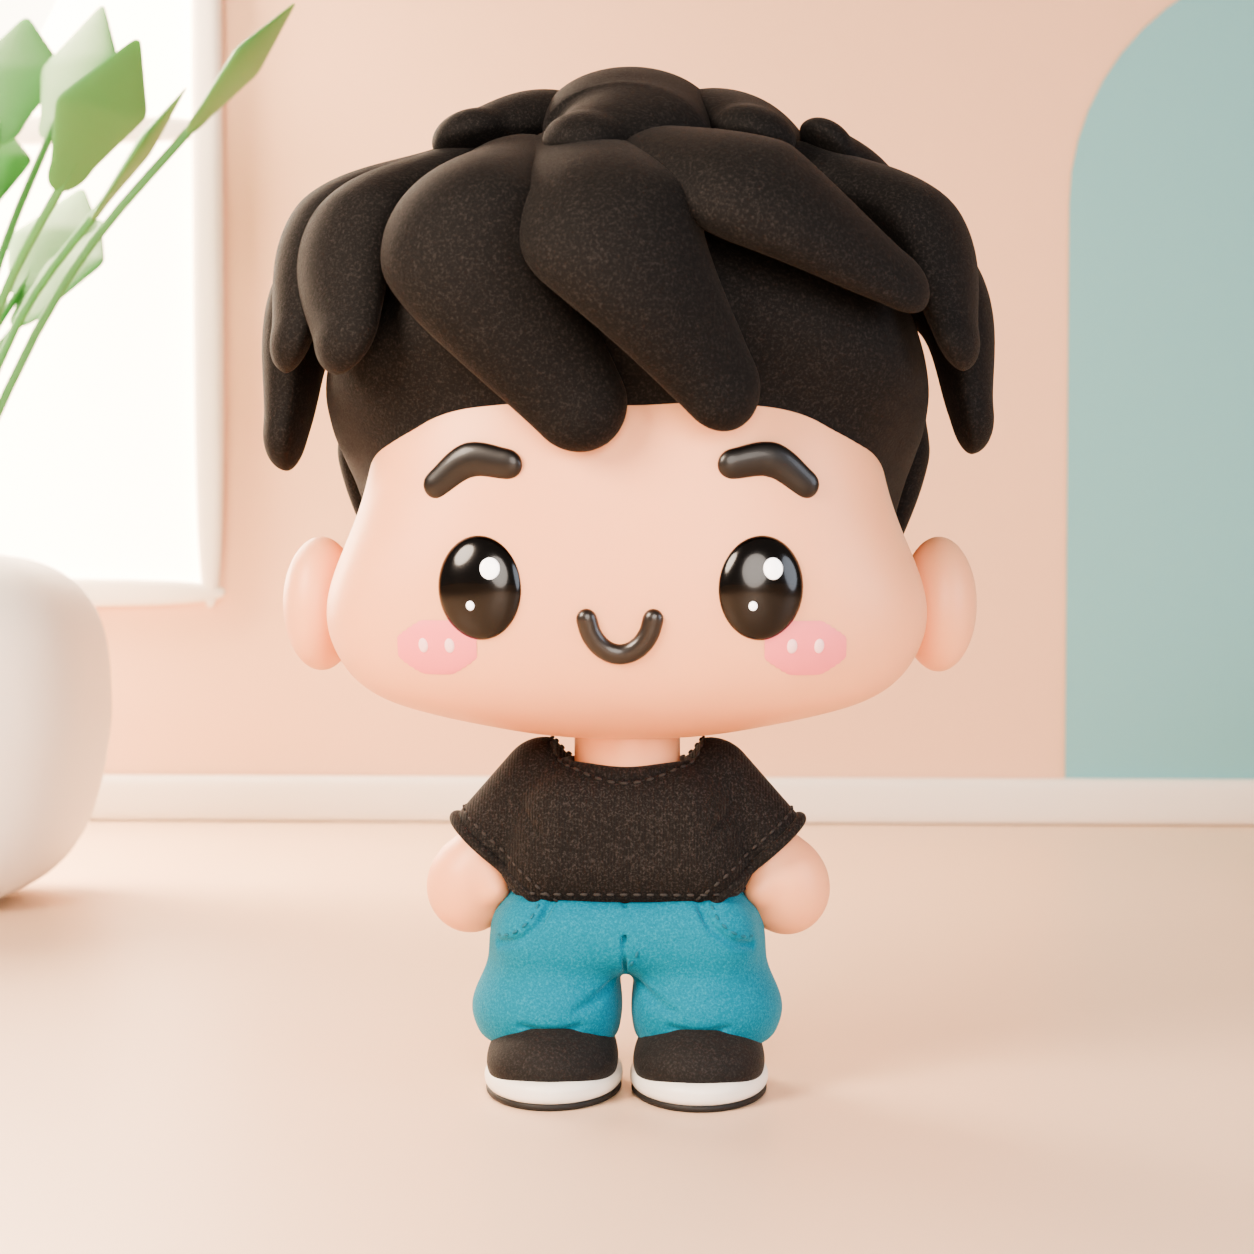
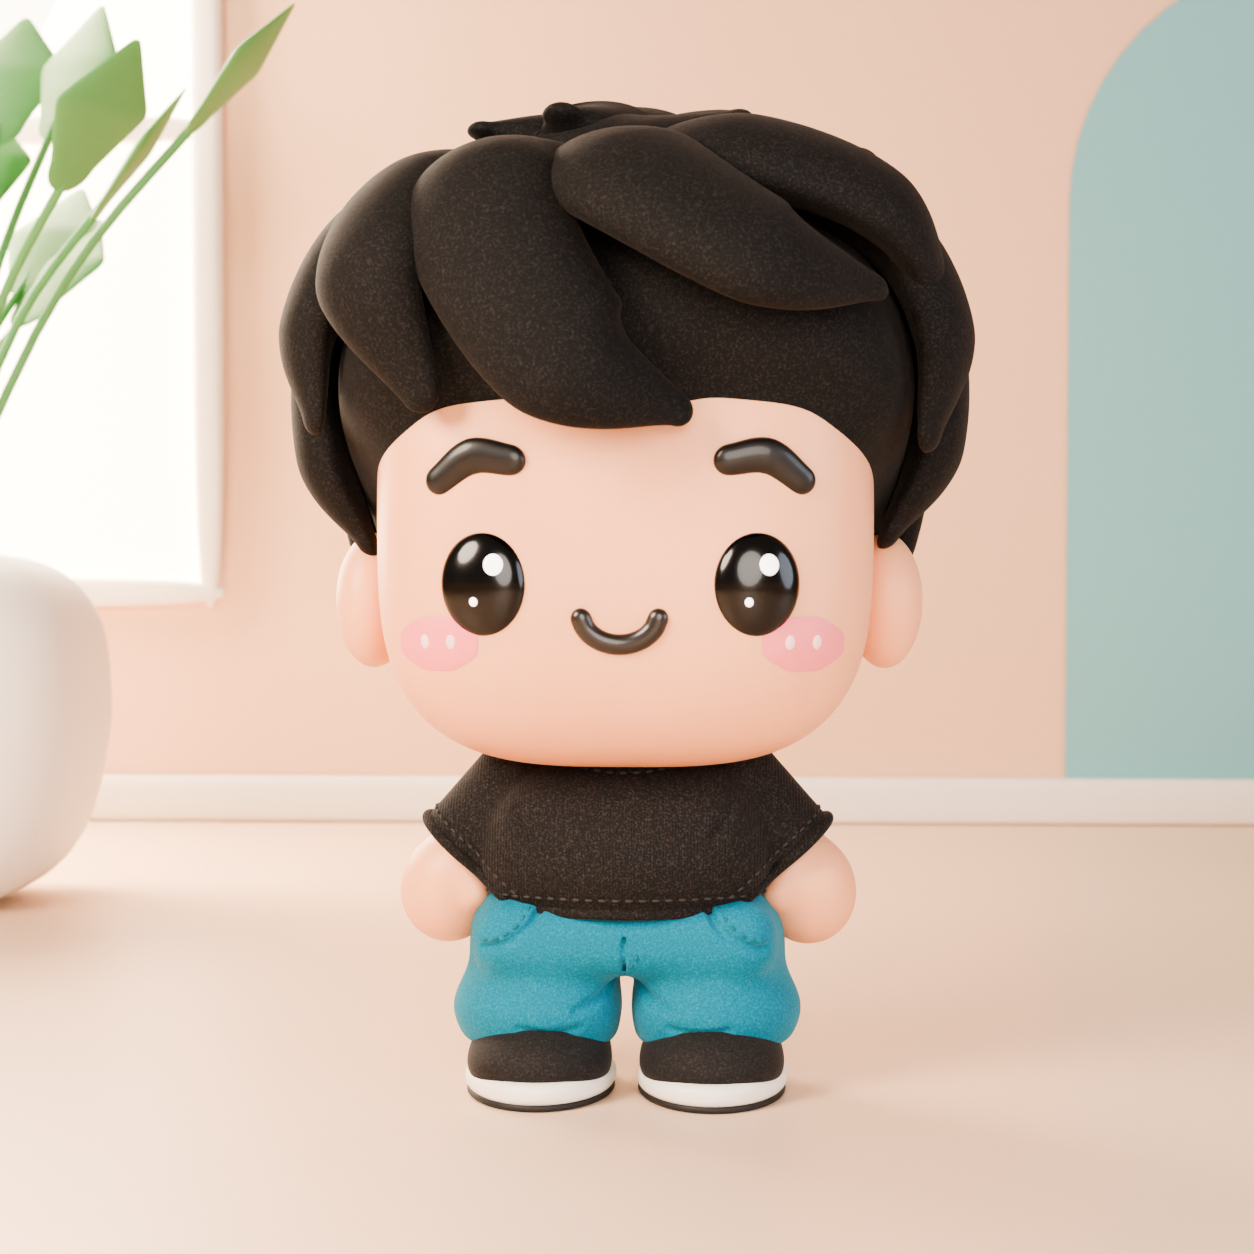
Renders de Él con cabeza cuadradita y cuerpo más gordito; toma de giro para Él
Claude-Session: https://claude.ai/code/session_011dAX7NrmbGrF2px86DxVyx

diff --git a/personajes/blender/renderizar.py b/personajes/blender/renderizar.py
@@ -157,6 +157,16 @@ def giro():
         r.location.x = X_EL if who == 'el' else X_ELLA
 
 
+def giro_el():
+    room(False)
+    show_collection('Ella | personaje', False)
+    EL.location.x = 0
+    for k, ang in ((0, 0), (1, 90), (2, 180), (3, 270)):
+        EL.rotation_euler.z = math.radians(ang)
+        render(f'giro-el-{k}', (0.0, -8.2, 1.7), (0.0, 0.0, 1.25), 70, 700, 900)
+    EL.rotation_euler.z = 0
+
+
 def poses_juego():
     room(False)
     show_collection('Ella | personaje', False)
@@ -169,7 +179,7 @@ def poses_juego():
 
 SHOTS = {
     'sala_pareja': sala_pareja, 'sala_el': sala_el, 'sala_el_tq': sala_el_tq, 'sala_ella': sala_ella, 'estudio_pareja': estudio_pareja,
-    'pareja_feliz': pareja_feliz, 'caras': caras, 'giro': giro, 'poses': poses_juego,
+    'pareja_feliz': pareja_feliz, 'caras': caras, 'giro': giro, 'giro_el': giro_el, 'poses': poses_juego,
 }
 
 for shot in SHOT_LIST:
